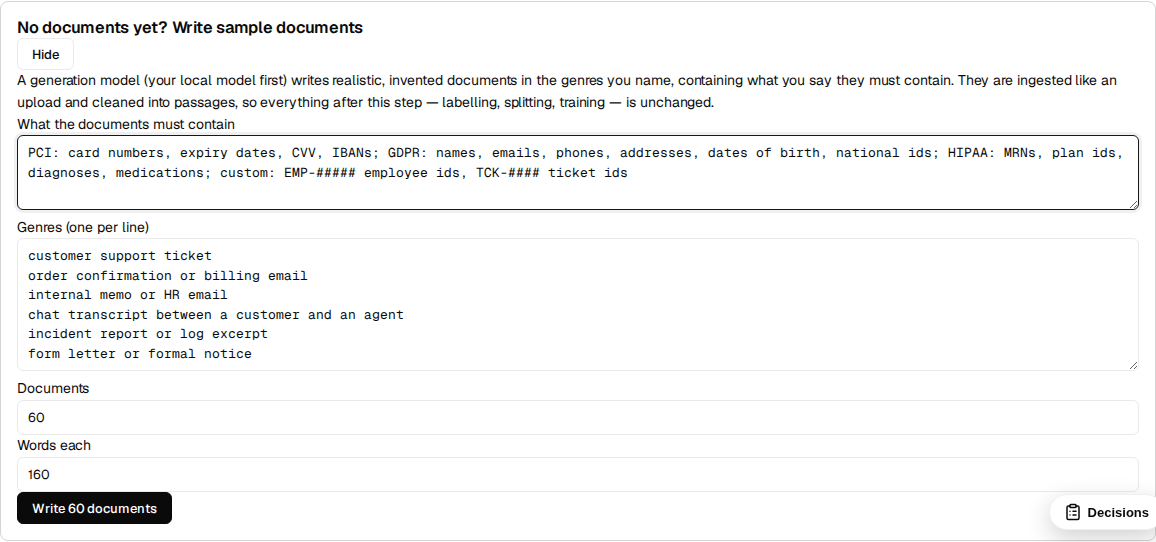
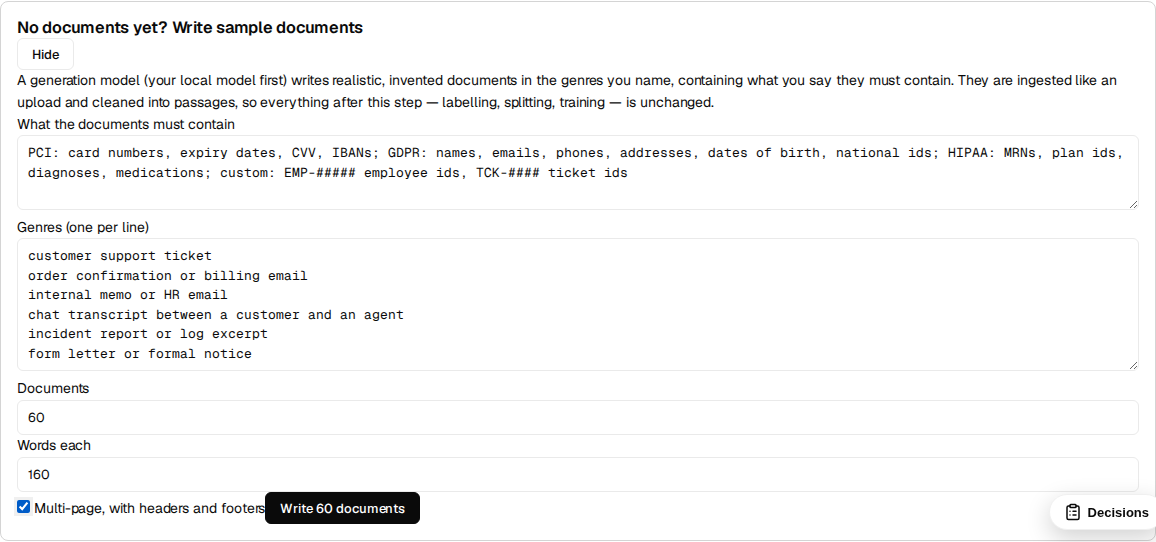
Blog: sensitive-data post — review fixes, P1 windows, P1b page furniture
Review fixes: a "Following along today" note (Steps 9–11 are our
history; two of their problems are fixed in BrewSLM), the caveat that
every text was invented and a real-data check comes before relying on
the model, precision/recall in two lines, span mode picked by hand on a
new project, 295 kept of 400 asked, where the Anthropic key goes (Save
key to this project, with a screenshot), the Priya example labelled as
one example we wrote, the licence/invented-data note.

Now that the product has them: "Evaluate this run" for the span model
(new screenshot, answer key first), Keep the current test examples on
later splits, a new Step 12 on long documents (windows: 0.59 → 0.82 on
multi-page text) and page furniture (paged sample documents + labelled
passages: footer documents 0.74 → 0.84, a never-seen footer style 0.69
→ 0.83, control run unchanged), stride=128 in the code sample with run
#62's verbatim output, run #62 as the headline (0.85 vs the Haiku key),
the scoreboard, costs, what broke, limits and the API list.

Changed region(s): [[0.0, 0.8856, 0.3737, 0.9742]]

diff --git a/blog-sensitive-data-detector-from-zero.html b/blog-sensitive-data-detector-from-zero.html
@@ -102,10 +102,12 @@
           expiry, CVV, bank account and IBAN (PCI); person name, email, phone, address, date of
           birth, national id, passport, IP address (GDPR); medical record number, health-plan id,
           diagnosis, medication, provider, visit date (HIPAA); and employee ids, API keys and ticket
-          ids (custom). Training takes about a minute.
+          ids (custom). Training takes about a minute and a half. It reads documents of any
+          length, page headers and footers included.
         </p>
         <p>
-          The honest headline is two numbers, not one, because of who wrote the answer key:
+          The honest headline is two numbers, not one, because of who wrote the answer key
+          (run #62, the last in this post):
         </p>
         <div class="table-wrap">
           <table class="compare-table">
@@ -113,16 +115,33 @@
               <tr><th>Scored against</th><th>Precision</th><th>Recall</th><th>F1</th></tr>
             </thead>
             <tbody>
-              <tr><td>Labels written by the same local model that wrote the training data</td><td>0.87</td><td>0.92</td><td>0.89</td></tr>
-              <tr><td><strong>An independent answer key written by a second model (Claude Haiku 4.5)</strong></td><td><strong>0.83</strong></td><td><strong>0.85</strong></td><td><strong>0.84</strong></td></tr>
+              <tr><td>Labels written by the same local model that wrote the training data</td><td>0.91</td><td>0.93</td><td>0.92</td></tr>
+              <tr><td><strong>An independent answer key written by a second model (Claude Haiku 4.5)</strong></td><td><strong>0.85</strong></td><td><strong>0.85</strong></td><td><strong>0.85</strong></td></tr>
             </tbody>
           </table>
         </div>
         <p>
           Both are on the same 44 held-out texts, with strict matching: type, start and end must
-          all be exact. The second number is the one to believe. Most of this post is about how it
-          got from 0.74 to 0.84, because that is where the craft is. Spoiler: almost none of it was
-          training.
+          all be exact. <strong>Precision</strong> is the share of the spans the model found that
+          are right; <strong>recall</strong> is the share of the real spans it found; F1 balances
+          the two. For redaction, recall is the one that hurts when it is low: a missed card number
+          leaks.
+        </p>
+        <p>
+          The second number is the one to believe. Most of this post is about how it got from 0.74
+          to 0.85, because that is where the craft is. Spoiler: almost none of it was training.
+        </p>
+        <p>
+          <strong>One caveat up front.</strong> Every text in this build — training and test — was
+          written by a model. 0.84 says how well the detector reads text like its training data,
+          not how it does on your real tickets. Checking it on a few dozen of your own texts is the
+          step before relying on it (see <a class="inline-link" href="#limits">limits</a>).
+        </p>
+        <p>
+          <strong>Following along today</strong> is shorter than our run was. Steps 1–8, 12 and 13
+          are the path. Steps 9–11 are what happened to us: two of the problems they describe (refine passes
+          that dropped labels, labellers with no shared conventions) are fixed in BrewSLM now, so you
+          won't see the 0.74 drop. The second opinion in Step 10 still matters — do it.
         </p>
 
         <h2 id="you-need">What you need</h2>
@@ -169,7 +188,7 @@
         </p>
         <figure class="blog-figure">
           <img src="./assets/blog/sensitive-data/01-seed-documents.png" alt="The Write sample documents card on the Data tab: what the documents must contain, genres one per line, document count and length" loading="lazy" />
-          <figcaption>Data tab → <em>No documents yet? Write sample documents</em>. Your local model runs first; a cloud model is used only if you pin one.</figcaption>
+          <figcaption>Data tab → <em>No documents yet? Write sample documents</em>, with <em>Multi-page, with headers and footers</em> ticked. Your local model runs first; a cloud model is used only if you pin one.</figcaption>
         </figure>
         <ul>
           <li>
@@ -185,6 +204,12 @@
             travel bookings and pharmacy messages.
           </li>
           <li><strong>Documents</strong> and <strong>words each</strong>: we used 80 × 170.</li>
+          <li>
+            <strong>Multi-page, with headers and footers</strong>: tick it if your real documents
+            have page furniture (letterheads, "Page 2 of 5", confidentiality lines). We added a
+            paged batch later — see <a class="inline-link" href="#step-12">Step 12</a> — and you
+            can tick it from the start.
+          </li>
         </ul>
         <p>
           The Job ran in the bell: <strong>80 documents in 8.4 minutes</strong>, 0 failures,
@@ -205,7 +230,9 @@
           From the recipe picker choose <strong>Structured Span Extractor</strong>
           (<code>span-extraction</code>). A row is <code>{text, entities: [{type, start, end,
           text}]}</code>, and evaluation uses the strict <code>span_set</code> scorer: a hit needs the
-          same type, start and end. The Synthetic tab switches to span mode on its own.
+          same type, start and end. On the <strong>Synthetic</strong> tab, set <strong>Generation mode</strong>
+          to <em>PII / NER span extraction</em>. (Once the project has a split, the tab opens in span
+          mode by itself.)
         </p>
 
         <h2 id="step-4">Step 4 · Write down your labelling conventions — before you label anything</h2>
@@ -288,7 +315,8 @@ person_name:   a private individual's name, including in greetings and signature
           </li>
         </ul>
         <p>
-          Our run: <strong>295 rows and ~1,950 entities in 42 minutes</strong>. Rows auto-save to
+          Our run asked for 400 rows and kept <strong>295, with ~1,950 entities, in 42 minutes</strong> —
+          the rest failed validation (no text, or no entity that could be found in its own text). Rows auto-save to
           the review queue grouped by source; accept them in bulk or reject what you don't like.
         </p>
 
@@ -296,6 +324,13 @@ person_name:   a private individual's name, including in greetings and signature
         <p>
           <strong>Dataset Prep → split</strong> 80 / 10 / 10. Ours came out 228 / 28 / 29. The test
           examples are what every score in this post is measured on.
+        </p>
+        <p>
+          Every later split, after you add rows, should tick <strong>Keep the current test
+          examples</strong>: the test rows stay exactly as they are and only train and validation
+          are re-divided, so the new run is scored on the same rows as the last one. (We didn't
+          have it for the early refine passes, which is why the early runs below were scored on
+          29 and 38 texts.)
         </p>
 
         <h2 id="step-7">Step 7 · Train for exact offsets: token classification</h2>
@@ -329,22 +364,23 @@ person_name:   a private individual's name, including in greetings and signature
           per-epoch span precision, recall and F1, plus a per-type breakdown.
         </p>
 
-        <h2 id="step-8">Step 8 · Evaluate on the test examples</h2>
+        <h2 id="step-8">Step 8 · Evaluate this run</h2>
         <p>
-          On the <strong>Eval</strong> tab, evaluate the run on the test examples. BrewSLM
-          recognises a token-classification checkpoint, tags the raw text with its head (no
-          generation), and scores with <code>span_set</code>. You get overall precision, recall
-          and F1, F1 per type, and for every row the entities matched, missed and invented, with
-          the model's output beside the key.
+          On the <strong>Eval</strong> tab, click <strong>Evaluate this run</strong> (it also runs by
+          itself when training finishes; the bell reports it). A token-classification run is scored
+          on its own: there is no "better than the base model" here, because its base is an encoder
+          with an untrained head. BrewSLM tags the raw test texts with the head (no generation) and
+          scores with <code>span_set</code>: precision, recall and F1 overall, the weakest types,
+          and for every failing text the entities expected and found, side by side.
         </p>
         <figure class="blog-figure">
-          <img src="./assets/blog/sensitive-data/05a-eval-summary.png" alt="Eval summary: where the model still fails, with each test text, the expected entities and the predicted entities" loading="lazy" />
-          <figcaption>"Where it still fails": the first failure is a card's last four digits, <code>4242</code>, split into a 1-digit card number and a 3-digit bank account. That is a real miss, kept in the screenshot on purpose.</figcaption>
+          <img src="./assets/blog/sensitive-data/05-eval-span.png" alt="Eval card: Span F1 0.85 against the answer key, written by Claude Haiku 4.5; test examples F1 0.92; weakest types; where it still fails" loading="lazy" />
+          <figcaption>Run #62 after Step 12. Once a second-opinion answer key exists (Step 10) the card leads with it. The first failure is the title convention from Step 11: the key says "Ms. Olivia Reed", the model "Olivia Reed".</figcaption>
         </figure>
         <p>
-          The first run (#53) scored <strong>P 0.88 / R 0.92 / F1 0.90</strong>. It was perfect on
-          email, phone, IBAN, IP and the ids, and weak on passport (0 of 3), medication (0.60),
-          API key and provider name (0.67), and national id (0.76).
+          The first run (#53) scored <strong>P 0.88 / R 0.92 / F1 0.90</strong> on its 29 test
+          texts. It was perfect on email, phone, IBAN, IP and the ids, and weak on passport (0 of 3),
+          medication (0.60), API key and provider name (0.67), and national id (0.76).
         </p>
 
         <h2 id="step-9">Step 9 · Refine the weak types — one button</h2>
@@ -372,8 +408,19 @@ person_name:   a private individual's name, including in greetings and signature
           how right either of them is. <strong>Write answer key with</strong> (provider Anthropic,
           model <code>claude-haiku-4-5</code>) hands the test texts — unchanged — to a second model.
           It asks only for the entities, under your conventions, and verifies every offset. The
-          result is kept as the project's <code>gold_test</code> set. Your API key is stored as a
-          project secret; BrewSLM never shows it back.
+          result is kept as the project's <code>gold_test</code> set.
+        </p>
+        <p>
+          <strong>Giving BrewSLM the key:</strong> on the Synthetic tab set <strong>Provider</strong> to
+          Anthropic, paste the key into <strong>API Key</strong> and click <strong>Save key to this
+          project</strong>. It is stored encrypted on the project, the field shows "✓ saved on
+          project", and the key is never shown back. Don't paste it into a chat or a ticket.
+        </p>
+        <figure class="blog-figure">
+          <img src="./assets/blog/sensitive-data/03-save-key.png" alt="Synthetic tab provider row: Anthropic selected, model claude-haiku-4-5, the API key field marked saved on project, and a Replace the saved key button" loading="lazy" />
+          <figcaption>Provider Anthropic, key saved on the project. With a fresh key the button reads <em>Save key to this project</em>.</figcaption>
+        </figure>
+        <p>
         </p>
         <p>
           It took 45 seconds for all 44 texts. The bell reports the <strong>agreement between the
@@ -432,7 +479,68 @@ person_name:   a private individual's name, including in greetings and signature
           those edges down. Re-running both labellers on it is the next step.
         </p>
 
-        <h2 id="step-12">Step 12 · Export and use it</h2>
+        <h2 id="step-12">Step 12 · Long documents and page furniture</h2>
+        <p>
+          An encoder reads 512 tokens at a time — a page or two. BrewSLM trains, validates, predicts
+          and evaluates anything longer in <strong>overlapping windows</strong> (128 tokens shared
+          between neighbours; each token's label comes from the window where it sits furthest from an
+          edge), so a document of any length is tagged end to end. You don't switch it on.
+        </p>
+        <p>
+          We measured it by joining the 44 test texts into four multi-page documents of 780–915
+          tokens and scoring them against the Haiku key. Before windowing, nothing after token 512
+          was found:
+        </p>
+        <div class="table-wrap">
+          <table class="compare-table">
+            <thead><tr><th>Run #58 reading whole documents</th><th>F1</th><th>Entities after token 512 found</th></tr></thead>
+            <tbody>
+              <tr><td>Each text alone (the reference)</td><td>0.84</td><td>—</td></tr>
+              <tr><td>Before windowing: cut at 512 tokens</td><td>0.59</td><td>0 of 126</td></tr>
+              <tr><td>Windowed</td><td><strong>0.82</strong></td><td>108 of 126</td></tr>
+            </tbody>
+          </table>
+        </div>
+        <p>
+          Windows fixed length but not <em>layout</em>. With a "Page 3 of 11" footer between the
+          texts, precision fell to 0.65: the model had never seen page furniture and tagged it — a
+          page number as a diagnosis, a footer date as a visit date. The fix is data, three clicks:
+        </p>
+        <ol>
+          <li>
+            <strong>Write sample documents</strong> with <strong>Multi-page, with headers and
+            footers</strong> ticked. We wrote 40 more (7 minutes): 129 passages, 83 of them with
+            page lines.
+          </li>
+          <li>
+            <strong>Label document passages with</strong> your model (Synthetic tab). The span
+            generator in Step 5 rewrites passages into new snippets, which drops the layout; this
+            labels the passages <em>as they are</em>, under your conventions. 128 passages, 708
+            entities, 5 minutes. They land in the review queue as <code>passage_labels</code> —
+            accept them there (pending rows never train).
+          </li>
+          <li>
+            Split with <strong>Keep the current test examples</strong>, and train.
+          </li>
+        </ol>
+        <div class="table-wrap">
+          <table class="compare-table">
+            <thead><tr><th>Multi-page documents, F1 vs the Haiku key</th><th>Before (run #59)</th><th>Re-split only (run #60)</th><th>+ paged passages (run #62)</th></tr></thead>
+            <tbody>
+              <tr><td>Texts joined by blank lines</td><td>0.82</td><td>0.84</td><td>0.84</td></tr>
+              <tr><td>"Page n of 11" footers</td><td>0.74</td><td>0.73</td><td><strong>0.84</strong></td></tr>
+              <tr><td>A footer and letterhead style the generator never writes</td><td>0.69</td><td>0.65</td><td><strong>0.83</strong></td></tr>
+              <tr><td>The 44 test texts, one by one</td><td>0.84</td><td>0.83</td><td>0.85</td></tr>
+            </tbody>
+          </table>
+        </div>
+        <p>
+          Run #60 is the control: the old training data, only re-split. It didn't move, so the
+          footer gain is the passages'. It held for a style the model never saw (<code>[3/11]</code>
+          plus a hospital letterhead), and short texts didn't get worse.
+        </p>
+
+        <h2 id="step-13">Step 13 · Export and use it</h2>
         <p>
           <strong>Export → Hugging Face</strong> packages the run's <code>model/</code> folder as
           is (there is no adapter to merge). It is 744 MB in fp32 and runs anywhere Transformers
@@ -440,7 +548,7 @@ person_name:   a private individual's name, including in greetings and signature
         </p>
         <pre class="code-block"><code>from transformers import pipeline
 
-tagger = pipeline("token-classification", model="path/to/model", aggregation_strategy="simple")
+tagger = pipeline("token-classification", model="path/to/model", aggregation_strategy="simple", stride=128)
 
 text = "Hi, Priya Natarajan here (DOB 14/03/1987). Refund £42 to IBAN GB29 NWBK 6016 1331 9268 19 " \
        "or reach me at priya.n@example.org / +44 7700 900123 — ticket TCK-5531."
@@ -449,19 +557,23 @@ for ent in tagger(text):
     while start &lt; end and text[start].isspace():  # DeBERTa's tokenizer counts the leading space
         start += 1
     print(f"{ent['entity_group']:15s} {start:4d}-{end:&lt;4d} {ent['score']:.2f}  {text[start:end]!r}")</code></pre>
-        <p>Run #58's export on that text, verbatim — a text it has never seen, in a UK format:</p>
-        <pre class="terminal-block"><code>person_name        4-19   0.90  'Priya Natarajan'
+        <p>
+          Run #62's export on that text, verbatim. We wrote the text for this post; it's one example
+          in a UK format the model never saw, not a benchmark — the tables are the measurement.
+        </p>
+        <pre class="terminal-block"><code>person_name        4-19   0.99  'Priya Natarajan'
 date_of_birth     30-40   0.99  '14/03/1987'
-iban              62-89   0.97  'GB29 NWBK 6016 1331 9268 19'
+iban              62-89   0.98  'GB29 NWBK 6016 1331 9268 19'
 email            105-124  1.00  'priya.n@example.org'
-phone            127-142  0.88  '+44 7700 900123'
-ticket_id        152-160  0.98  'TCK-5531'</code></pre>
+phone            127-142  0.98  '+44 7700 900123'
+ticket_id        152-160  0.95  'TCK-5531'</code></pre>
         <p>
           <code>start</code> and <code>end</code> are character offsets into the string you
           passed. <code>entity_group</code> is your type name, custom types included. The two-line
           trim is needed because DeBERTa's tokenizer attaches the preceding space to a word, so the
           pipeline's start can sit one character early. BrewSLM's own evaluation does the same
-          trim.
+          trim. <code>stride=128</code> makes the pipeline window long texts the way BrewSLM does;
+          <strong>without it, the pipeline stops at 512 tokens.</strong>
         </p>
 
         <h2 id="scoreboard">The whole scoreboard</h2>
@@ -476,7 +588,8 @@ ticket_id        152-160  0.98  'TCK-5531'</code></pre>
               <tr><td>#55</td><td>+87 refine rows for weak types</td><td>0.90 (38 test texts)</td><td>—</td></tr>
               <tr><td>#56</td><td>+55 rows from <em>Refine weak types</em></td><td>0.88 (44)</td><td>0.74</td></tr>
               <tr><td>#57</td><td>+ regex pass over saved rows (438 entities)</td><td>0.89 (44)</td><td>0.79</td></tr>
-              <tr><td><strong>#58</strong></td><td>+ all rows relabelled under the conventions</td><td><strong>0.89</strong> (44)</td><td><strong>0.84</strong></td></tr>
+              <tr><td>#58</td><td>+ all rows relabelled under the conventions</td><td>0.89 (44)</td><td>0.84</td></tr>
+              <tr><td><strong>#62</strong></td><td>+ 128 passages from paged documents, labelled as they are</td><td><strong>0.92</strong> (44)</td><td><strong>0.85</strong></td></tr>
             </tbody>
           </table>
         </div>
@@ -500,6 +613,7 @@ ticket_id        152-160  0.98  'TCK-5531'</code></pre>
               <tr><td>Evaluation, 44 texts</td><td>seconds</td><td>local</td></tr>
               <tr><td>Answer key, 44 texts (Haiku 4.5)</td><td>45–60 s</td><td>8 calls — a few cents (estimated)</td></tr>
               <tr><td>Relabel 874 training rows under conventions (local)</td><td>39 min</td><td>local</td></tr>
+              <tr><td>40 paged documents + labelling their 129 passages (local)</td><td>7 + 5 min</td><td>local</td></tr>
             </tbody>
           </table>
         </div>
@@ -519,15 +633,20 @@ ticket_id        152-160  0.98  'TCK-5531'</code></pre>
           <li>The held-out eval measured perplexity, because the span recipe's adapter didn't declare its task profile.</li>
           <li>Refine passes narrowed the type list, leaving phones and emails unlabelled.</li>
           <li>The second-opinion key lost batches to replies cut off mid-JSON. Replies are now compact, and a failed batch is split rather than re-sent.</li>
+          <li>Training, evaluation and the exported tokenizer all stopped at 512 tokens, and the export claimed an unlimited length, so <code>stride</code> did nothing.</li>
+          <li>"Evaluate this run" skipped token-classification runs; there was no UI to save the Anthropic key on the Synthetic tab; and rows written without an id could never be accepted from the review queue, so they silently never trained.</li>
         </ul>
 
         <h2 id="limits">Limits, and what's next</h2>
         <ul>
           <li>
-            <strong>Long documents.</strong> Inference and evaluation currently see the first 512
-            tokens of a text. Sliding windows with span merging are the first item on the product
-            roadmap. Until then, pass the pipeline's <code>stride</code> argument or split long
-            documents yourself.
+            <strong>No real-world score yet.</strong> All the text here is invented. Before you rely
+            on the detector, label a few dozen of your own texts (have a second model draft the
+            labels, then correct them by hand) and score it on those. Expect it to be lower.
+          </li>
+          <li>
+            <strong>Scanned documents.</strong> Long and paged text works (Step 12), but every page
+            here was clean text. OCR noise — broken words, stray characters — isn't tested yet.
           </li>
           <li>
             <strong>English only so far.</strong> Multilingual encoders, sample documents per
@@ -565,8 +684,19 @@ GET  /api/projects/{id}/synthetic/weak-types?threshold=0.8
 POST /api/projects/{id}/synthetic/relabel-answer-key  {"split": "test", "backend": "cloud:anthropic:claude-haiku-4-5-20251001"}
 POST /api/projects/{id}/synthetic/relabel-answer-key  {"target": "training", "backend": "ollama"}
 POST /api/projects/{id}/synthetic/spans/regex-augment
+# page furniture: paged documents → label passages as they are → accept → split keeping the test rows
+POST /api/projects/{id}/flows/seed-documents          {..., "layout": "paged"}
+POST /api/projects/{id}/synthetic/relabel-answer-key  {"target": "passages", "document_id": doc, "backend": "ollama"}
+POST /api/projects/{id}/synthetic/review-queue/bulk-update-by-source  {"source": "passage_labels:doc=&lt;doc&gt;", "action": "accept"}
+POST /api/projects/{id}/dataset/split                 {..., "keep_test": true}
+# evaluate (what "Evaluate this run" calls)
+POST /api/projects/{id}/evaluation/summary/lift-check {"experiment_id": exp}
 # ship
 POST /api/projects/{id}/export/create                 {"experiment_id": exp, "export_format": "huggingface"}</code></pre>
+        <p>
+          DeBERTa-v3 is MIT-licensed, and every person, card and record in the training data was
+          invented, so the exported model carries no one's real data.
+        </p>
         <p>
           The lesson that generalises beyond PII: <strong>get a second opinion on your answer key
           before you trust a score, and write down your labelling conventions before you label

diff --git a/blog.html b/blog.html
@@ -76,7 +76,8 @@
                 PCI, GDPR, HIPAA and your own ids, tagged with exact character offsets — from an
                 empty project and a local Ollama to a Hugging Face model. Every step in BrewSLM,
                 every number real, including the second-opinion key that took the score from 0.88
-                to 0.74 and the label fixes that brought it back to 0.84.
+                to 0.74, the label fixes that brought it to 0.85, and multi-page documents with
+                headers and footers.
               </p>
               <a class="btn btn-solid" href="./blog-sensitive-data-detector-from-zero.html">Read</a>
             </div>
